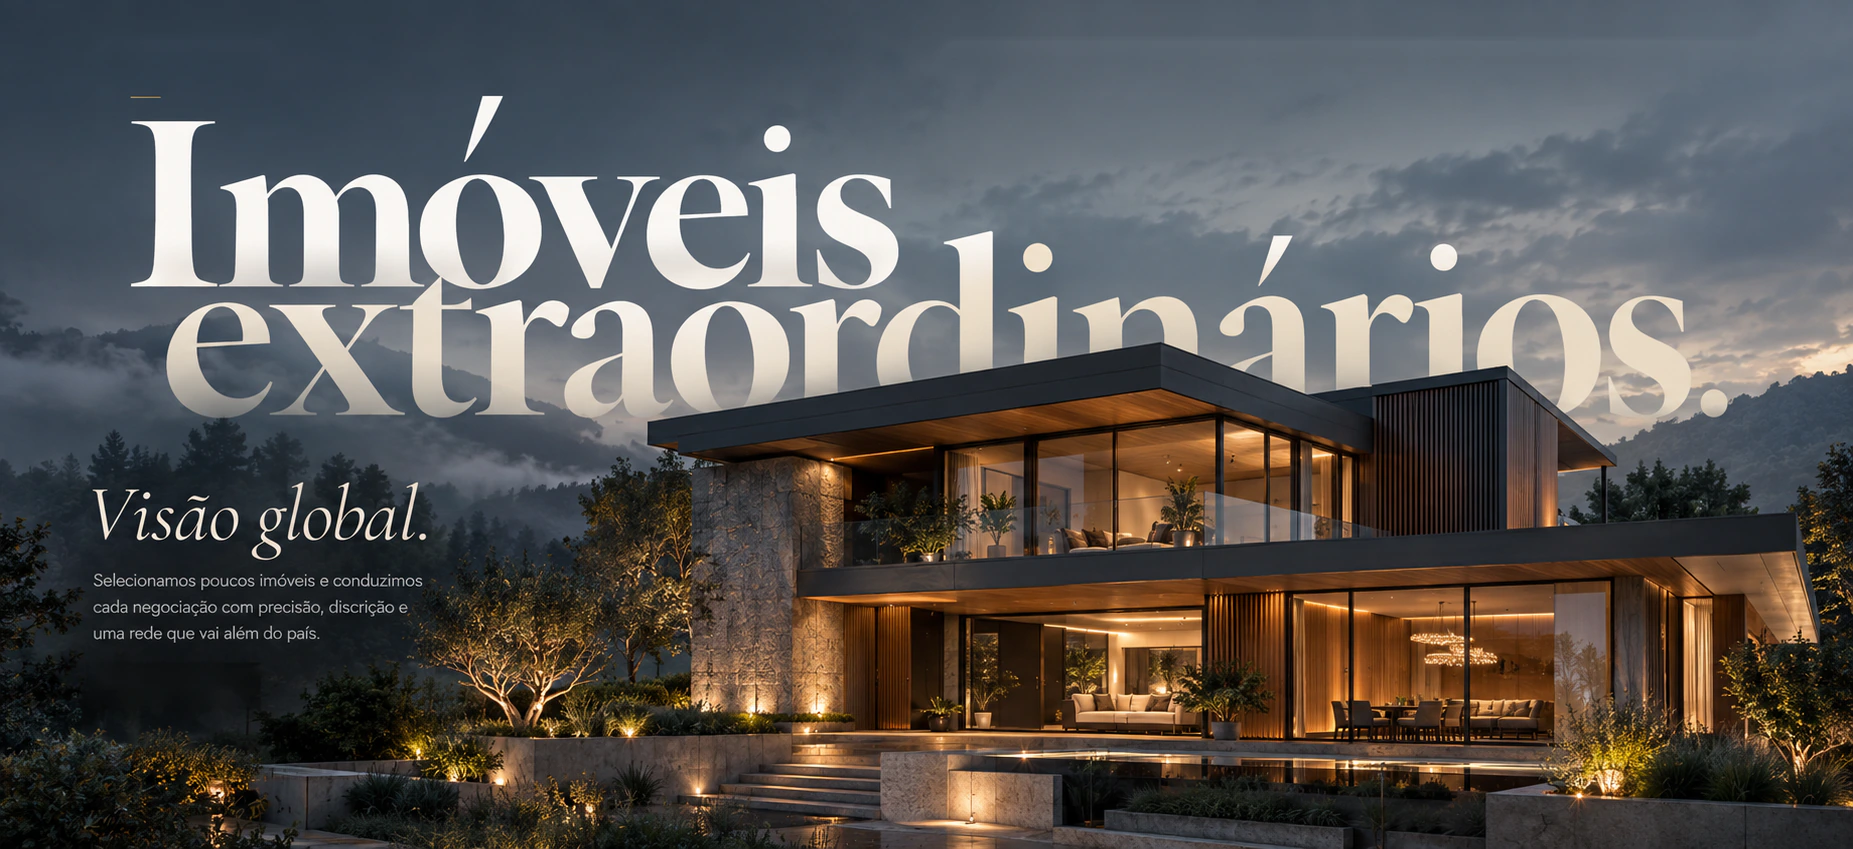
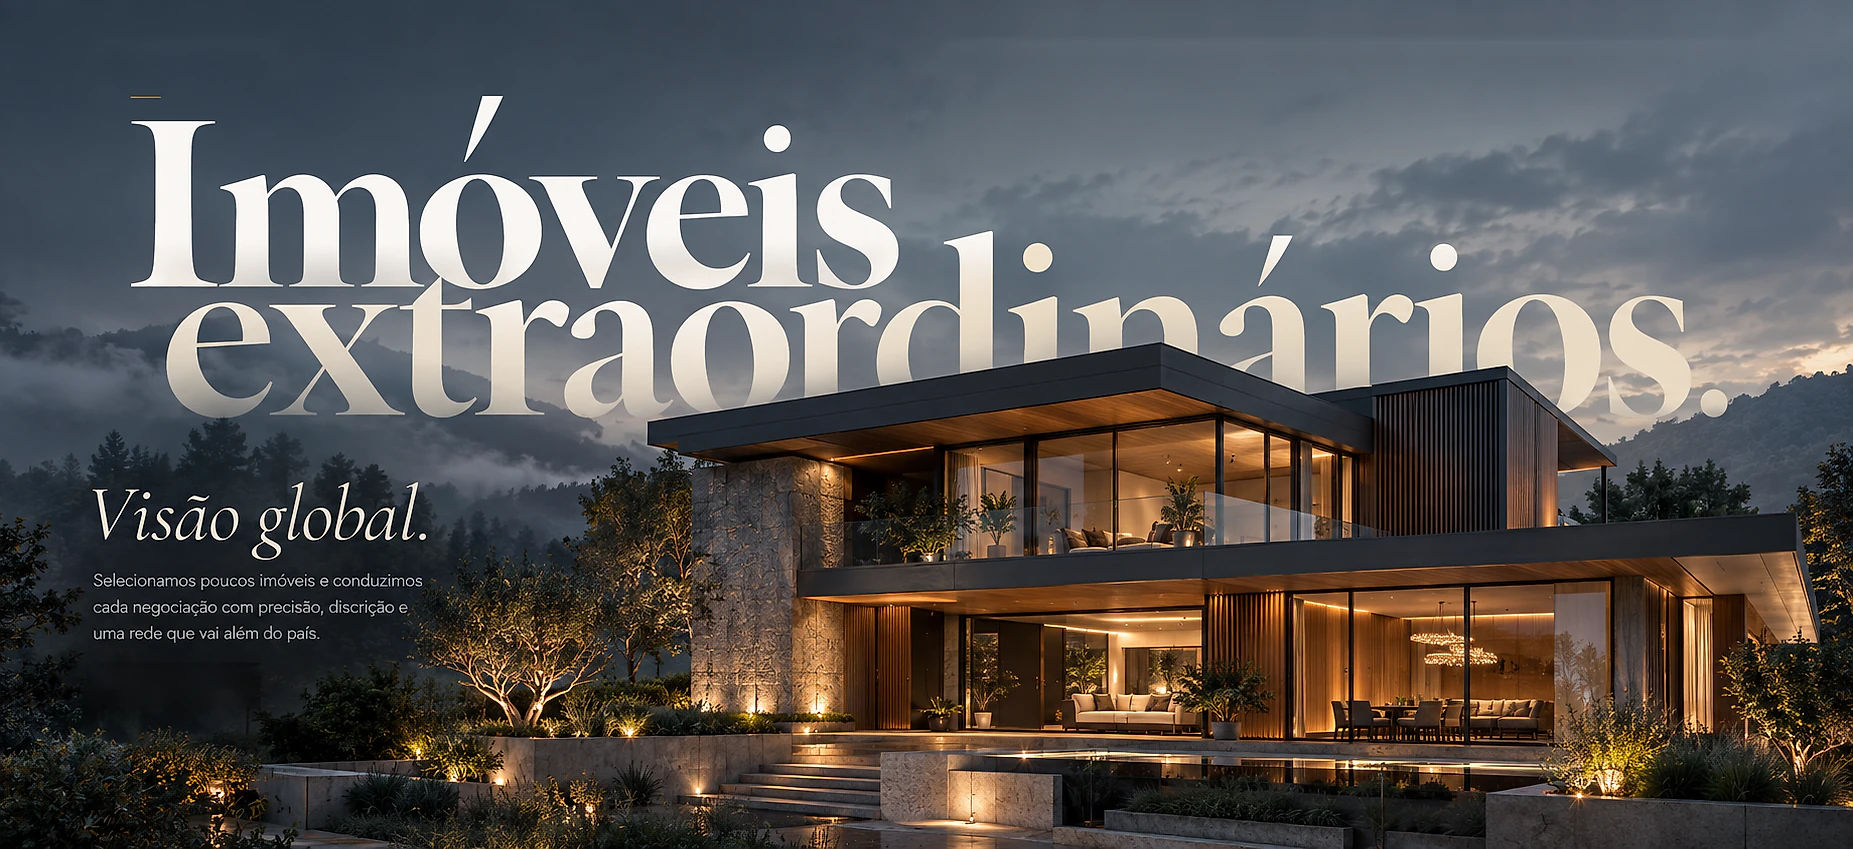
perf: mais nitidez nas imagens do cabecalho
Ela pediu mais qualidade nas imagens do cabecalho. Duas medidas, e um
teto que nao da para passar.

1. AFIACAO na largura de hoje, com a qualidade baixada de 92 para 90
   para o arquivo nao engordar: a afiacao devolve mais do que a queda de
   qualidade tira. Custo em tela comum: 51 KB nas tres.

2. UMA LARGURA NOVA, de 2800px, com Lanczos e afiacao. Numa tela de alta
   resolucao o navegador quer 3784px para largura inteira: com o arquivo
   de hoje ele estica 2.04 vezes, com o de 2800px estica 1.35. E ai que a
   moleza aparece.

   Ela entra no srcset como mais uma opcao, entao QUEM ESTA EM TELA COMUM
   NAO A BAIXA. So paga os 1277 KB quem tem tela que os aproveita.

O RECORTE DO CELULAR cresceu de 1100 para 1400px pelo mesmo motivo: num
telefone de alta resolucao os 1100 ja estavam sendo esticados.

O TETO QUE PERMANECE: os arquivos de origem tem 1853px. Nada disto cria
detalhe que nao existe. Nitidez de verdade so vem com renders de uns
3700px; quando eles chegarem, e so trocar os arquivos e o codigo nao
muda.

CONFERIDO: as tres continuam na MESMA proporcao (2.1814 a 2.1828), que e
o que impede a moldura de voltar a cortar alguma; os 12 arquivos citados
no HTML existindo; e as medidas declaradas no HTML acompanhando o
recorte de celular que cresceu.

diff --git a/index.html b/index.html
@@ -1819,25 +1819,25 @@
     <div class="slides" id="slides" aria-hidden="true">
       <div class="slide ativa">
         <picture>
-          <source media="(max-width: 900px)" srcset="fotos/capa-1-cel.webp" width="1100" height="688">
+          <source media="(max-width: 900px)" srcset="fotos/capa-1-cel.webp" width="1400" height="875">
           <img src="fotos/capa-1.webp"
-               srcset="fotos/capa-1-960.webp 960w, fotos/capa-1.webp 1853w" sizes="100vw"
+               srcset="fotos/capa-1-960.webp 960w, fotos/capa-1.webp 1853w, fotos/capa-1-2x.webp 2800w" sizes="100vw"
                alt="" width="1853" height="849" fetchpriority="high" decoding="async">
         </picture>
       </div>
       <div class="slide">
         <picture>
-          <source media="(max-width: 900px)" srcset="fotos/capa-2-cel.webp" width="1100" height="688">
+          <source media="(max-width: 900px)" srcset="fotos/capa-2-cel.webp" width="1400" height="875">
           <img src="fotos/capa-2.webp"
-               srcset="fotos/capa-2-960.webp 960w, fotos/capa-2.webp 1672w" sizes="100vw"
+               srcset="fotos/capa-2-960.webp 960w, fotos/capa-2.webp 1672w, fotos/capa-2-2x.webp 2800w" sizes="100vw"
                alt="" width="1672" height="766" loading="lazy" decoding="async">
         </picture>
       </div>
       <div class="slide">
         <picture>
-          <source media="(max-width: 900px)" srcset="fotos/capa-3-cel.webp" width="1100" height="688">
+          <source media="(max-width: 900px)" srcset="fotos/capa-3-cel.webp" width="1400" height="875">
           <img src="fotos/capa-3.webp"
-               srcset="fotos/capa-3-960.webp 960w, fotos/capa-3.webp 1852w" sizes="100vw"
+               srcset="fotos/capa-3-960.webp 960w, fotos/capa-3.webp 1852w, fotos/capa-3-2x.webp 2800w" sizes="100vw"
                alt="" width="1852" height="849" loading="lazy" decoding="async">
         </picture>
       </div>
